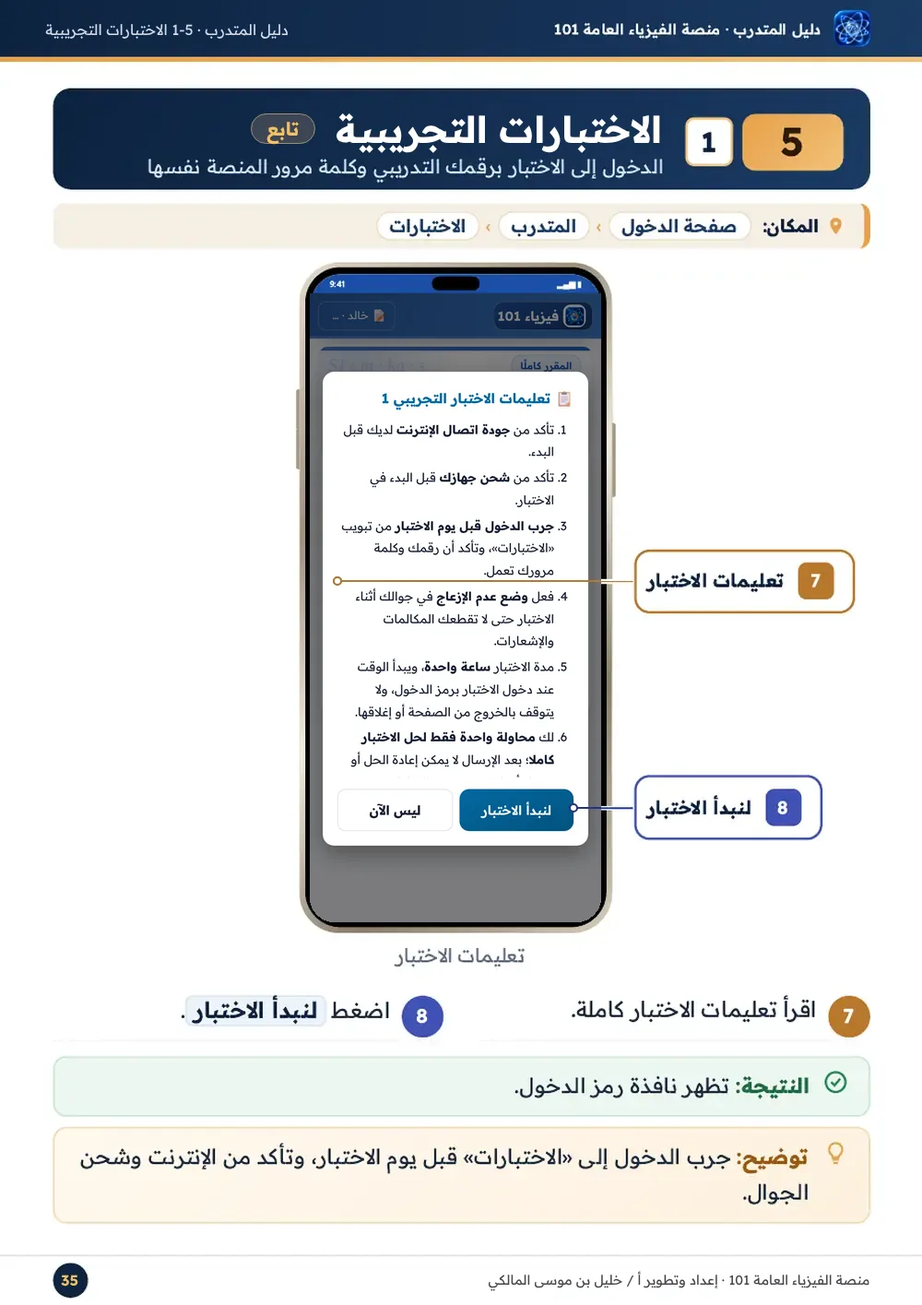
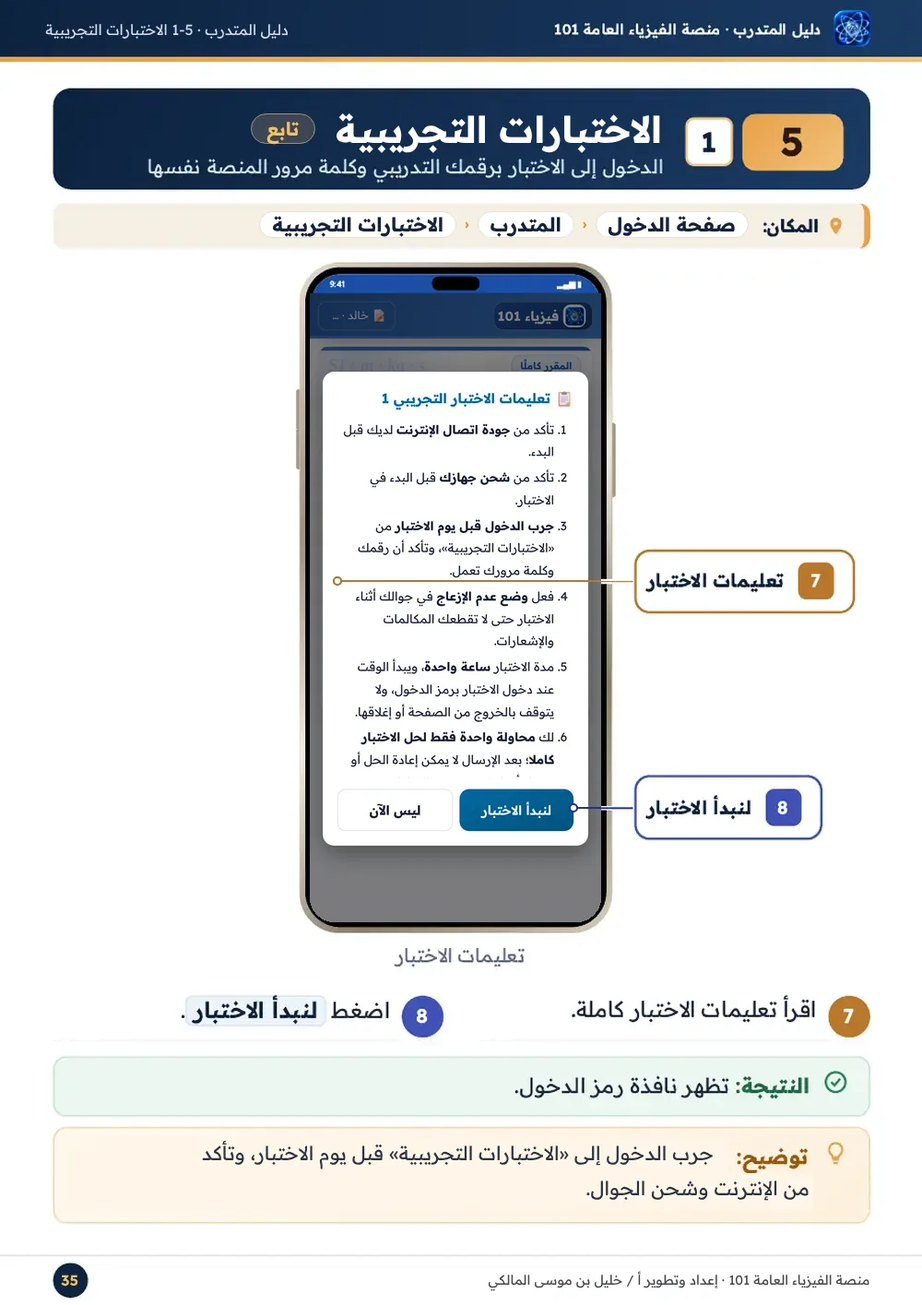
«الاختبارات التجريبية» في صفحة الدخول والرسائل والدليلين، و«المعاينة» بدل «تجريبي»
Claude-Session: https://claude.ai/code/session_01CB4T7YvaYW1hTMEojz72V4

diff --git a/guide.html b/guide.html
@@ -18,7 +18,7 @@ main{max-width:920px;margin:0 auto;padding:12px 10px 40px;padding-left:max(10px,
 <header><img src="icon-192.png" alt=""><h1>دليل المتدرب</h1><button type="button" id="tg">☰ الفهرس</button><a href="index.html">↩ المنصة</a></header>
 <main><nav class="toc" id="toc"><h2>☰ محتويات دليل المتدرب</h2><a href="#p2">03 المتطلبات قبل البدء</a><div class="stg"><b>1</b>مرحلة البدء</div><a href="#p3"><span>1-1</span>البدء: الدخول وتعيين كلمة المرور</a><a href="#p7"><span>1-2</span>الصفحة الرئيسية واختيار الدرس</a><div class="stg"><b>2</b>مرحلة الشرح</div><a href="#p8"><span>2-1</span>شرح الدرس على السبورة مع المدرب الذكي</a><a href="#p12"><span>2-2</span>نص الدرس و«استمع للدرس كاملا»</a><div class="stg"><b>3</b>مرحلة التدريب</div><a href="#p14"><span>3-1</span>الأمثلة والتمارين التفاعلية</a><a href="#p18"><span>3-2</span>اختبر نفسك والآلة الحاسبة</a><a href="#p20"><span>3-3</span>التجارب العملية التفاعلية</a><a href="#p23"><span>3-4</span>المساعد الذكي وتقييم الدرس</a><div class="stg"><b>4</b>مرحلة الإنهاء</div><a href="#p27"><span>4-1</span>إنهاء الدرس وحفظ التقدم والانتقال للدرس التالي</a><a href="#p29"><span>4-2</span>الإعدادات: الصوت والوضع الليلي</a><div class="stg"><b>5</b>مرحلة الاختبارات والخروج</div><a href="#p31"><span>5-1</span>الاختبارات التجريبية</a><a href="#p35"><span>5-2</span>تسجيل الخروج</a></nav>
 <p class="note">كبّر الصفحة بإصبعين لقراءة التفاصيل.</p>
-<img id="p1" class="pg" src="gtr-01.webp?v=1103d" width="1000" height="1415" alt="دليل المتدرب - صفحة 1" loading="eager" decoding="async"><img id="p2" class="pg" src="gtr-02.webp?v=1103d" width="1000" height="1415" alt="دليل المتدرب - صفحة 2" loading="eager" decoding="async"><img id="p3" class="pg" src="gtr-03.webp?v=1103e" width="1000" height="1415" alt="دليل المتدرب - صفحة 3" loading="lazy" decoding="async"><img id="p4" class="pg" src="gtr-04.webp?v=1103d" width="1000" height="1415" alt="دليل المتدرب - صفحة 4" loading="lazy" decoding="async"><img id="p5" class="pg" src="gtr-05.webp?v=1103d" width="1000" height="1415" alt="دليل المتدرب - صفحة 5" loading="lazy" decoding="async"><img id="p6" class="pg" src="gtr-06.webp?v=1103d" width="1000" height="1415" alt="دليل المتدرب - صفحة 6" loading="lazy" decoding="async"><img id="p7" class="pg" src="gtr-07.webp?v=1103d" width="1000" height="1415" alt="دليل المتدرب - صفحة 7" loading="lazy" decoding="async"><img id="p8" class="pg" src="gtr-08.webp?v=1103d" width="1000" height="1415" alt="دليل المتدرب - صفحة 8" loading="lazy" decoding="async"><img id="p9" class="pg" src="gtr-09.webp?v=1103d" width="1000" height="1415" alt="دليل المتدرب - صفحة 9" loading="lazy" decoding="async"><img id="p10" class="pg" src="gtr-10.webp?v=1103d" width="1000" height="1415" alt="دليل المتدرب - صفحة 10" loading="lazy" decoding="async"><img id="p11" class="pg" src="gtr-11.webp?v=1103d" width="1000" height="1415" alt="دليل المتدرب - صفحة 11" loading="lazy" decoding="async"><img id="p12" class="pg" src="gtr-12.webp?v=1103d" width="1000" height="1415" alt="دليل المتدرب - صفحة 12" loading="lazy" decoding="async"><img id="p14" class="pg" src="gtr-14.webp?v=1103d" width="1000" height="1415" alt="دليل المتدرب - صفحة 14" loading="lazy" decoding="async"><img id="p15" class="pg" src="gtr-15.webp?v=1103d" width="1000" height="1415" alt="دليل المتدرب - صفحة 15" loading="lazy" decoding="async"><img id="p16" class="pg" src="gtr-16.webp?v=1103d" width="1000" height="1415" alt="دليل المتدرب - صفحة 16" loading="lazy" decoding="async"><img id="p17" class="pg" src="gtr-17.webp?v=1103d" width="1000" height="1415" alt="دليل المتدرب - صفحة 17" loading="lazy" decoding="async"><img id="p18" class="pg" src="gtr-18.webp?v=1103d" width="1000" height="1415" alt="دليل المتدرب - صفحة 18" loading="lazy" decoding="async"><img id="p19" class="pg" src="gtr-19.webp?v=1103d" width="1000" height="1415" alt="دليل المتدرب - صفحة 19" loading="lazy" decoding="async"><img id="p20" class="pg" src="gtr-20.webp?v=1103d" width="1000" height="1415" alt="دليل المتدرب - صفحة 20" loading="lazy" decoding="async"><img id="p21" class="pg" src="gtr-21.webp?v=1103d" width="1000" height="1415" alt="دليل المتدرب - صفحة 21" loading="lazy" decoding="async"><img id="p22" class="pg" src="gtr-22.webp?v=1103d" width="1000" height="1415" alt="دليل المتدرب - صفحة 22" loading="lazy" decoding="async"><img id="p23" class="pg" src="gtr-23.webp?v=1103d" width="1000" height="1415" alt="دليل المتدرب - صفحة 23" loading="lazy" decoding="async"><img id="p24" class="pg" src="gtr-24.webp?v=1103d" width="1000" height="1415" alt="دليل المتدرب - صفحة 24" loading="lazy" decoding="async"><img id="p25" class="pg" src="gtr-25.webp?v=1103d" width="1000" height="1415" alt="دليل المتدرب - صفحة 25" loading="lazy" decoding="async"><img id="p26" class="pg" src="gtr-26.webp?v=1103d" width="1000" height="1415" alt="دليل المتدرب - صفحة 26" loading="lazy" decoding="async"><img id="p27" class="pg" src="gtr-27.webp?v=1103d" width="1000" height="1415" alt="دليل المتدرب - صفحة 27" loading="lazy" decoding="async"><img id="p28" class="pg" src="gtr-28.webp?v=1103d" width="1000" height="1415" alt="دليل المتدرب - صفحة 28" loading="lazy" decoding="async"><img id="p29" class="pg" src="gtr-29.webp?v=1103d" width="1000" height="1415" alt="دليل المتدرب - صفحة 29" loading="lazy" decoding="async"><img id="p30" class="pg" src="gtr-30.webp?v=1103d" width="1000" height="1415" alt="دليل المتدرب - صفحة 30" loading="lazy" decoding="async"><img id="p31" class="pg" src="gtr-31.webp?v=1103d" width="1000" height="1415" alt="دليل المتدرب - صفحة 31" loading="lazy" decoding="async"><img id="p32" class="pg" src="gtr-32.webp?v=1103d" width="1000" height="1415" alt="دليل المتدرب - صفحة 32" loading="lazy" decoding="async"><img id="p33" class="pg" src="gtr-33.webp?v=1103d" width="1000" height="1415" alt="دليل المتدرب - صفحة 33" loading="lazy" decoding="async"><img id="p34" class="pg" src="gtr-34.webp?v=1103d" width="1000" height="1415" alt="دليل المتدرب - صفحة 34" loading="lazy" decoding="async"><img id="p35" class="pg" src="gtr-35.webp?v=1103e" width="1000" height="1415" alt="دليل المتدرب - صفحة 35" loading="lazy" decoding="async"></main>
+<img id="p1" class="pg" src="gtr-01.webp?v=1103f" width="1000" height="1415" alt="دليل المتدرب - صفحة 1" loading="eager" decoding="async"><img id="p2" class="pg" src="gtr-02.webp?v=1103f" width="1000" height="1415" alt="دليل المتدرب - صفحة 2" loading="eager" decoding="async"><img id="p3" class="pg" src="gtr-03.webp?v=1103f" width="1000" height="1415" alt="دليل المتدرب - صفحة 3" loading="lazy" decoding="async"><img id="p4" class="pg" src="gtr-04.webp?v=1103f" width="1000" height="1415" alt="دليل المتدرب - صفحة 4" loading="lazy" decoding="async"><img id="p5" class="pg" src="gtr-05.webp?v=1103f" width="1000" height="1415" alt="دليل المتدرب - صفحة 5" loading="lazy" decoding="async"><img id="p6" class="pg" src="gtr-06.webp?v=1103f" width="1000" height="1415" alt="دليل المتدرب - صفحة 6" loading="lazy" decoding="async"><img id="p7" class="pg" src="gtr-07.webp?v=1103f" width="1000" height="1415" alt="دليل المتدرب - صفحة 7" loading="lazy" decoding="async"><img id="p8" class="pg" src="gtr-08.webp?v=1103f" width="1000" height="1415" alt="دليل المتدرب - صفحة 8" loading="lazy" decoding="async"><img id="p9" class="pg" src="gtr-09.webp?v=1103f" width="1000" height="1415" alt="دليل المتدرب - صفحة 9" loading="lazy" decoding="async"><img id="p10" class="pg" src="gtr-10.webp?v=1103f" width="1000" height="1415" alt="دليل المتدرب - صفحة 10" loading="lazy" decoding="async"><img id="p11" class="pg" src="gtr-11.webp?v=1103f" width="1000" height="1415" alt="دليل المتدرب - صفحة 11" loading="lazy" decoding="async"><img id="p12" class="pg" src="gtr-12.webp?v=1103f" width="1000" height="1415" alt="دليل المتدرب - صفحة 12" loading="lazy" decoding="async"><img id="p14" class="pg" src="gtr-14.webp?v=1103f" width="1000" height="1415" alt="دليل المتدرب - صفحة 14" loading="lazy" decoding="async"><img id="p15" class="pg" src="gtr-15.webp?v=1103f" width="1000" height="1415" alt="دليل المتدرب - صفحة 15" loading="lazy" decoding="async"><img id="p16" class="pg" src="gtr-16.webp?v=1103f" width="1000" height="1415" alt="دليل المتدرب - صفحة 16" loading="lazy" decoding="async"><img id="p17" class="pg" src="gtr-17.webp?v=1103f" width="1000" height="1415" alt="دليل المتدرب - صفحة 17" loading="lazy" decoding="async"><img id="p18" class="pg" src="gtr-18.webp?v=1103f" width="1000" height="1415" alt="دليل المتدرب - صفحة 18" loading="lazy" decoding="async"><img id="p19" class="pg" src="gtr-19.webp?v=1103f" width="1000" height="1415" alt="دليل المتدرب - صفحة 19" loading="lazy" decoding="async"><img id="p20" class="pg" src="gtr-20.webp?v=1103f" width="1000" height="1415" alt="دليل المتدرب - صفحة 20" loading="lazy" decoding="async"><img id="p21" class="pg" src="gtr-21.webp?v=1103f" width="1000" height="1415" alt="دليل المتدرب - صفحة 21" loading="lazy" decoding="async"><img id="p22" class="pg" src="gtr-22.webp?v=1103f" width="1000" height="1415" alt="دليل المتدرب - صفحة 22" loading="lazy" decoding="async"><img id="p23" class="pg" src="gtr-23.webp?v=1103f" width="1000" height="1415" alt="دليل المتدرب - صفحة 23" loading="lazy" decoding="async"><img id="p24" class="pg" src="gtr-24.webp?v=1103f" width="1000" height="1415" alt="دليل المتدرب - صفحة 24" loading="lazy" decoding="async"><img id="p25" class="pg" src="gtr-25.webp?v=1103f" width="1000" height="1415" alt="دليل المتدرب - صفحة 25" loading="lazy" decoding="async"><img id="p26" class="pg" src="gtr-26.webp?v=1103f" width="1000" height="1415" alt="دليل المتدرب - صفحة 26" loading="lazy" decoding="async"><img id="p27" class="pg" src="gtr-27.webp?v=1103f" width="1000" height="1415" alt="دليل المتدرب - صفحة 27" loading="lazy" decoding="async"><img id="p28" class="pg" src="gtr-28.webp?v=1103f" width="1000" height="1415" alt="دليل المتدرب - صفحة 28" loading="lazy" decoding="async"><img id="p29" class="pg" src="gtr-29.webp?v=1103f" width="1000" height="1415" alt="دليل المتدرب - صفحة 29" loading="lazy" decoding="async"><img id="p30" class="pg" src="gtr-30.webp?v=1103f" width="1000" height="1415" alt="دليل المتدرب - صفحة 30" loading="lazy" decoding="async"><img id="p31" class="pg" src="gtr-31.webp?v=1103f" width="1000" height="1415" alt="دليل المتدرب - صفحة 31" loading="lazy" decoding="async"><img id="p32" class="pg" src="gtr-32.webp?v=1103f" width="1000" height="1415" alt="دليل المتدرب - صفحة 32" loading="lazy" decoding="async"><img id="p33" class="pg" src="gtr-33.webp?v=1103f" width="1000" height="1415" alt="دليل المتدرب - صفحة 33" loading="lazy" decoding="async"><img id="p34" class="pg" src="gtr-34.webp?v=1103f" width="1000" height="1415" alt="دليل المتدرب - صفحة 34" loading="lazy" decoding="async"><img id="p35" class="pg" src="gtr-35.webp?v=1103f" width="1000" height="1415" alt="دليل المتدرب - صفحة 35" loading="lazy" decoding="async"></main>
 <button class="top" type="button" id="up" aria-label="إلى الأعلى">↑</button>
 <script>
 const T=document.getElementById('toc');document.getElementById('tg').onclick=()=>{T.hidden=false;T.scrollIntoView({behavior:'smooth'})};

diff --git a/teacher-guide.html b/teacher-guide.html
@@ -18,7 +18,7 @@ main{max-width:920px;margin:0 auto;padding:12px 10px 40px;padding-left:max(10px,
 <header><img src="icon-192.png" alt=""><h1>دليل المدرب</h1><button type="button" id="tg">☰ الفهرس</button><a href="teacher.html">↩ لوحة المدرب</a></header>
 <main><nav class="toc" id="toc"><h2>☰ محتويات دليل المدرب</h2><a href="#p2">03 المتطلبات قبل البدء</a><div class="stg"><b>1</b>مرحلة الدخول</div><a href="#p3"><span>1-1</span>الدخول إلى لوحة المدرب</a><div class="stg"><b>2</b>مرحلة الإعدادات</div><a href="#p5"><span>2-1</span>رمز التسجيل لأول دخول</a><a href="#p6"><span>2-2</span>إضافة الشعب</a><a href="#p7"><span>2-3</span>رابط المنصة والمدرب الذكي</a><a href="#p9"><span>2-4</span>بيانات الدخول</a><a href="#p10"><span>2-5</span>إدارة المتدربين</a><a href="#p11"><span>2-6</span>توزيع نقاط مهام الدروس</a><div class="stg"><b>3</b>مرحلة متابعة الدروس</div><a href="#p12"><span>3-1</span>متابعة الدروس</a><a href="#p13"><span>3-1</span>سجل متابعة المتدرب</a><div class="stg"><b>4</b>مرحلة مهام الدروس</div><a href="#p14"><span>4-1</span>نقاط مهام الدروس</a><a href="#p15"><span>4-1</span>المؤشرات والمتابعة</a><a href="#p16"><span>4-1</span>بطاقة المتدرب</a><div class="stg"><b>5</b>مرحلة الاختبارات</div><a href="#p17"><span>5-1</span>الاختبارات: الشعب والمتدربون</a><a href="#p18"><span>5-1</span>فتح الاختبار والرمز والمدة</a><a href="#p19"><span>5-1</span>موعد الاختبار والإعدادات العامة</a><a href="#p20"><span>5-1</span>سجل نتائج الاختبارات</a><a href="#p21"><span>5-1</span>إعادة الاختبار والسماح بجهاز آخر</a><a href="#p22"><span>5-2</span>أوراق المتدربين</a><a href="#p23"><span>5-2</span>الورقة بعد الحل والطباعة</a><a href="#p24"><span>5-2</span>بنك الأسئلة وتصدير Word</a><div class="stg"><b>6</b>مرحلة الإحصائيات والتقارير</div><a href="#p25"><span>6-1</span>الإحصائيات والتقارير</a><a href="#p26"><span>6-1</span>التقييم ومدة شرح الدروس</a><a href="#p27"><span>6-1</span>أسئلة المساعد الذكي</a><div class="stg"><b>7</b>مرحلة الخروج</div><a href="#p28"><span>7-1</span>تسجيل الخروج</a></nav>
 <p class="note">كبّر الصفحة بإصبعين لقراءة التفاصيل.</p>
-<img id="p1" class="pg" src="gtc-01.webp?v=1103d" width="1000" height="1415" alt="دليل المدرب - صفحة 1" loading="eager" decoding="async"><img id="p2" class="pg" src="gtc-02.webp?v=1103d" width="1000" height="1415" alt="دليل المدرب - صفحة 2" loading="eager" decoding="async"><img id="p3" class="pg" src="gtc-03.webp?v=1103e" width="1000" height="1415" alt="دليل المدرب - صفحة 3" loading="lazy" decoding="async"><img id="p4" class="pg" src="gtc-04.webp?v=1103d" width="1000" height="1415" alt="دليل المدرب - صفحة 4" loading="lazy" decoding="async"><img id="p5" class="pg" src="gtc-05.webp?v=1103d" width="1000" height="1415" alt="دليل المدرب - صفحة 5" loading="lazy" decoding="async"><img id="p6" class="pg" src="gtc-06.webp?v=1103d" width="1000" height="1415" alt="دليل المدرب - صفحة 6" loading="lazy" decoding="async"><img id="p7" class="pg" src="gtc-07.webp?v=1103d" width="1000" height="1415" alt="دليل المدرب - صفحة 7" loading="lazy" decoding="async"><img id="p8" class="pg" src="gtc-08.webp?v=1103d" width="1000" height="1415" alt="دليل المدرب - صفحة 8" loading="lazy" decoding="async"><img id="p9" class="pg" src="gtc-09.webp?v=1103d" width="1000" height="1415" alt="دليل المدرب - صفحة 9" loading="lazy" decoding="async"><img id="p10" class="pg" src="gtc-10.webp?v=1103d" width="1000" height="1415" alt="دليل المدرب - صفحة 10" loading="lazy" decoding="async"><img id="p11" class="pg" src="gtc-11.webp?v=1103d" width="1000" height="1415" alt="دليل المدرب - صفحة 11" loading="lazy" decoding="async"><img id="p12" class="pg" src="gtc-12.webp?v=1103d" width="1000" height="1415" alt="دليل المدرب - صفحة 12" loading="lazy" decoding="async"><img id="p13" class="pg" src="gtc-13.webp?v=1103d" width="1000" height="1415" alt="دليل المدرب - صفحة 13" loading="lazy" decoding="async"><img id="p14" class="pg" src="gtc-14.webp?v=1103d" width="1000" height="1415" alt="دليل المدرب - صفحة 14" loading="lazy" decoding="async"><img id="p15" class="pg" src="gtc-15.webp?v=1103d" width="1000" height="1415" alt="دليل المدرب - صفحة 15" loading="lazy" decoding="async"><img id="p16" class="pg" src="gtc-16.webp?v=1103d" width="1000" height="1415" alt="دليل المدرب - صفحة 16" loading="lazy" decoding="async"><img id="p17" class="pg" src="gtc-17.webp?v=1103d" width="1000" height="1415" alt="دليل المدرب - صفحة 17" loading="lazy" decoding="async"><img id="p18" class="pg" src="gtc-18.webp?v=1103d" width="1000" height="1415" alt="دليل المدرب - صفحة 18" loading="lazy" decoding="async"><img id="p19" class="pg" src="gtc-19.webp?v=1103d" width="1000" height="1415" alt="دليل المدرب - صفحة 19" loading="lazy" decoding="async"><img id="p20" class="pg" src="gtc-20.webp?v=1103d" width="1000" height="1415" alt="دليل المدرب - صفحة 20" loading="lazy" decoding="async"><img id="p21" class="pg" src="gtc-21.webp?v=1103d" width="1000" height="1415" alt="دليل المدرب - صفحة 21" loading="lazy" decoding="async"><img id="p22" class="pg" src="gtc-22.webp?v=1103d" width="1000" height="1415" alt="دليل المدرب - صفحة 22" loading="lazy" decoding="async"><img id="p23" class="pg" src="gtc-23.webp?v=1103d" width="1000" height="1415" alt="دليل المدرب - صفحة 23" loading="lazy" decoding="async"><img id="p24" class="pg" src="gtc-24.webp?v=1103d" width="1000" height="1415" alt="دليل المدرب - صفحة 24" loading="lazy" decoding="async"><img id="p25" class="pg" src="gtc-25.webp?v=1103d" width="1000" height="1415" alt="دليل المدرب - صفحة 25" loading="lazy" decoding="async"><img id="p26" class="pg" src="gtc-26.webp?v=1103d" width="1000" height="1415" alt="دليل المدرب - صفحة 26" loading="lazy" decoding="async"><img id="p27" class="pg" src="gtc-27.webp?v=1103d" width="1000" height="1415" alt="دليل المدرب - صفحة 27" loading="lazy" decoding="async"><img id="p28" class="pg" src="gtc-28.webp?v=1103d" width="1000" height="1415" alt="دليل المدرب - صفحة 28" loading="lazy" decoding="async"></main>
+<img id="p1" class="pg" src="gtc-01.webp?v=1103f" width="1000" height="1415" alt="دليل المدرب - صفحة 1" loading="eager" decoding="async"><img id="p2" class="pg" src="gtc-02.webp?v=1103f" width="1000" height="1415" alt="دليل المدرب - صفحة 2" loading="eager" decoding="async"><img id="p3" class="pg" src="gtc-03.webp?v=1103f" width="1000" height="1415" alt="دليل المدرب - صفحة 3" loading="lazy" decoding="async"><img id="p4" class="pg" src="gtc-04.webp?v=1103f" width="1000" height="1415" alt="دليل المدرب - صفحة 4" loading="lazy" decoding="async"><img id="p5" class="pg" src="gtc-05.webp?v=1103f" width="1000" height="1415" alt="دليل المدرب - صفحة 5" loading="lazy" decoding="async"><img id="p6" class="pg" src="gtc-06.webp?v=1103f" width="1000" height="1415" alt="دليل المدرب - صفحة 6" loading="lazy" decoding="async"><img id="p7" class="pg" src="gtc-07.webp?v=1103f" width="1000" height="1415" alt="دليل المدرب - صفحة 7" loading="lazy" decoding="async"><img id="p8" class="pg" src="gtc-08.webp?v=1103f" width="1000" height="1415" alt="دليل المدرب - صفحة 8" loading="lazy" decoding="async"><img id="p9" class="pg" src="gtc-09.webp?v=1103f" width="1000" height="1415" alt="دليل المدرب - صفحة 9" loading="lazy" decoding="async"><img id="p10" class="pg" src="gtc-10.webp?v=1103f" width="1000" height="1415" alt="دليل المدرب - صفحة 10" loading="lazy" decoding="async"><img id="p11" class="pg" src="gtc-11.webp?v=1103f" width="1000" height="1415" alt="دليل المدرب - صفحة 11" loading="lazy" decoding="async"><img id="p12" class="pg" src="gtc-12.webp?v=1103f" width="1000" height="1415" alt="دليل المدرب - صفحة 12" loading="lazy" decoding="async"><img id="p13" class="pg" src="gtc-13.webp?v=1103f" width="1000" height="1415" alt="دليل المدرب - صفحة 13" loading="lazy" decoding="async"><img id="p14" class="pg" src="gtc-14.webp?v=1103f" width="1000" height="1415" alt="دليل المدرب - صفحة 14" loading="lazy" decoding="async"><img id="p15" class="pg" src="gtc-15.webp?v=1103f" width="1000" height="1415" alt="دليل المدرب - صفحة 15" loading="lazy" decoding="async"><img id="p16" class="pg" src="gtc-16.webp?v=1103f" width="1000" height="1415" alt="دليل المدرب - صفحة 16" loading="lazy" decoding="async"><img id="p17" class="pg" src="gtc-17.webp?v=1103f" width="1000" height="1415" alt="دليل المدرب - صفحة 17" loading="lazy" decoding="async"><img id="p18" class="pg" src="gtc-18.webp?v=1103f" width="1000" height="1415" alt="دليل المدرب - صفحة 18" loading="lazy" decoding="async"><img id="p19" class="pg" src="gtc-19.webp?v=1103f" width="1000" height="1415" alt="دليل المدرب - صفحة 19" loading="lazy" decoding="async"><img id="p20" class="pg" src="gtc-20.webp?v=1103f" width="1000" height="1415" alt="دليل المدرب - صفحة 20" loading="lazy" decoding="async"><img id="p21" class="pg" src="gtc-21.webp?v=1103f" width="1000" height="1415" alt="دليل المدرب - صفحة 21" loading="lazy" decoding="async"><img id="p22" class="pg" src="gtc-22.webp?v=1103f" width="1000" height="1415" alt="دليل المدرب - صفحة 22" loading="lazy" decoding="async"><img id="p23" class="pg" src="gtc-23.webp?v=1103f" width="1000" height="1415" alt="دليل المدرب - صفحة 23" loading="lazy" decoding="async"><img id="p24" class="pg" src="gtc-24.webp?v=1103f" width="1000" height="1415" alt="دليل المدرب - صفحة 24" loading="lazy" decoding="async"><img id="p25" class="pg" src="gtc-25.webp?v=1103f" width="1000" height="1415" alt="دليل المدرب - صفحة 25" loading="lazy" decoding="async"><img id="p26" class="pg" src="gtc-26.webp?v=1103f" width="1000" height="1415" alt="دليل المدرب - صفحة 26" loading="lazy" decoding="async"><img id="p27" class="pg" src="gtc-27.webp?v=1103f" width="1000" height="1415" alt="دليل المدرب - صفحة 27" loading="lazy" decoding="async"><img id="p28" class="pg" src="gtc-28.webp?v=1103f" width="1000" height="1415" alt="دليل المدرب - صفحة 28" loading="lazy" decoding="async"></main>
 <button class="top" type="button" id="up" aria-label="إلى الأعلى">↑</button>
 <script>
 const T=document.getElementById('toc');document.getElementById('tg').onclick=()=>{T.hidden=false;T.scrollIntoView({behavior:'smooth'})};

diff --git a/teacher.html b/teacher.html
@@ -1248,10 +1248,10 @@ function exDraw(){
      ${RKM==='del'?'<label class="rkAll"><input type="checkbox" class="rkSA" data-t="rkDC"> تحديد الكل (الظاهرين)</label>':''}<div class="rkList">${st.map(x=>`<div class="rkR rkE" data-id="${esc(x.id)}" data-q="${esc((x.id+' '+x.name).toLowerCase())}">${RKM==='del'?`<input type="checkbox" class="rkDC" value="${esc(x.id)}">`:''}<span class="num">${esc(x.id)}</span><b>${esc(x.name)}</b><small>${x.platform?'المنصة':'خارجي'}</small>${RKM==='del'?`<small>${esc(sn(x.sectionId))}</small>`:`<select class="rkMv">${secOpts(x.sectionId,false)}</select><button class="btn ghost sm rkEn">✏ الاسم</button><button class="btn ghost sm rkPw">🔑 كلمة المرور</button>`}</div>`).join('')||'<p class="empty">لا يوجد متدربون في الكشف.</p>'}</div>
      ${RKM==='del'?'<button class="btn danger" id="rkDel" style="margin-top:10px">🗑 حذف المحددين</button>':''}</div>
    </div></div></div>
-  <div class="card"><h2>⚙ إعدادات الاختبارات التجريبية</h2><p class="sub">أي اختبار تفتحه يظهر مباشرة لجميع متدربي كشف الاختبارات، ويختفي عند إغلاقه. يدخل المتدرب من صفحة الدخول: «المتدرب» ثم «الاختبارات»، ولكل متدرب محاولة واحدة.</p>
+  <div class="card"><h2>⚙ إعدادات الاختبارات التجريبية</h2><p class="sub">أي اختبار تفتحه يظهر مباشرة لجميع متدربي كشف الاختبارات، ويختفي عند إغلاقه. يدخل المتدرب من صفحة الدخول: «المتدرب» ثم «الاختبارات التجريبية»، ولكل متدرب محاولة واحدة.</p>
   <div class="exCols">${pickHtml}<div class="exOne">${AX.filter(e=>e.id===EXSEL).map(e=>`<div class="exT ${e.open?'on':''}" data-e="${e.id}"><div class="exTh"><b>${esc(e.t)}</b><span class="tag">${AR(e.max)} نقطة</span></div>
    <p class="sub">${e.soon?'⏳ سيضاف لاحقا':e.n?`عدد الأسئلة ${AR(e.n)} · ${esc(e.cover)}`+(e.ready===false?' · <b style="color:var(--bad)">بانتظار اكتمال بنك الأسئلة</b>':''):'لم تحدد أسئلته بعد'}</p>
-   ${e.trial?`<div class="exSt">🧪 3 أسئلة نظرية ومسألة حسابية (5 نقاط، 20 دقيقة) لجميع الشعب، ولا يدخل في النتائج. لتجربتك أنت: من صفحة الدخول اختر «المدرب» ثم «الاختبارات»، وادخل باسم المستخدم وكلمة المرور الخاصة بلوحة المدرب. ${(()=>{const v=EXR.rows.filter(x=>x.examId==='ET'&&x.submittedAt&&x.studentId!=='1000').map(x=>x.score/(x.max||e.max)*e.max);return v.length?`متوسط المتدربين: <b>${AR(Math.round(v.reduce((a,x)=>a+x,0)/v.length*100)/100)}</b> من ${AR(e.max)} · `:''})()}${(EXR.rows.find(x=>x.examId==='ET'&&x.studentId==='1000')||{}).submittedAt?`نقاطك: <b>${AR((EXR.rows.find(x=>x.examId==='ET'&&x.studentId==='1000')).score)}</b> من ${AR((EXR.rows.find(x=>x.examId==='ET'&&x.studentId==='1000')).max||e.max)} `:''}<button class="btn ghost sm exTrR">إعادة تجربتك</button></div>`:''}
+   ${e.trial?`<div class="exSt">🧪 3 أسئلة نظرية ومسألة حسابية (5 نقاط، 20 دقيقة) لجميع الشعب، ولا يدخل في النتائج. لتجربتك أنت: من صفحة الدخول اختر «المدرب» ثم «الاختبارات التجريبية»، وادخل باسم المستخدم وكلمة المرور الخاصة بلوحة المدرب. ${(()=>{const v=EXR.rows.filter(x=>x.examId==='ET'&&x.submittedAt&&x.studentId!=='1000').map(x=>x.score/(x.max||e.max)*e.max);return v.length?`متوسط المتدربين: <b>${AR(Math.round(v.reduce((a,x)=>a+x,0)/v.length*100)/100)}</b> من ${AR(e.max)} · `:''})()}${(EXR.rows.find(x=>x.examId==='ET'&&x.studentId==='1000')||{}).submittedAt?`نقاطك: <b>${AR((EXR.rows.find(x=>x.examId==='ET'&&x.studentId==='1000')).score)}</b> من ${AR((EXR.rows.find(x=>x.examId==='ET'&&x.studentId==='1000')).max||e.max)} `:''}<button class="btn ghost sm exTrR">إعادة تجربتك</button></div>`:''}
    ${EXSET.length>1&&e.n&&!e.soon&&e.ready!==false?`<div class="exBulk"><b>الشعب المحددة (${AR(EXSET.length)})</b><button class="btn sm exBO">🔓 فتح للمحددة</button><button class="btn danger sm exBC">🔒 إغلاق للمحددة</button></div>`:''}
    ${e.n&&!e.soon?secRows(e):''}
    <details class="exAll"><summary>⚙ إعدادات الاختبار لجميع الشعب</summary><div class="row"><label class="exMin">المدة العامة <input type="number" min="5" max="180" value="${e.min}" ${e.n&&!e.soon?'':'disabled'}> دقيقة</label>
